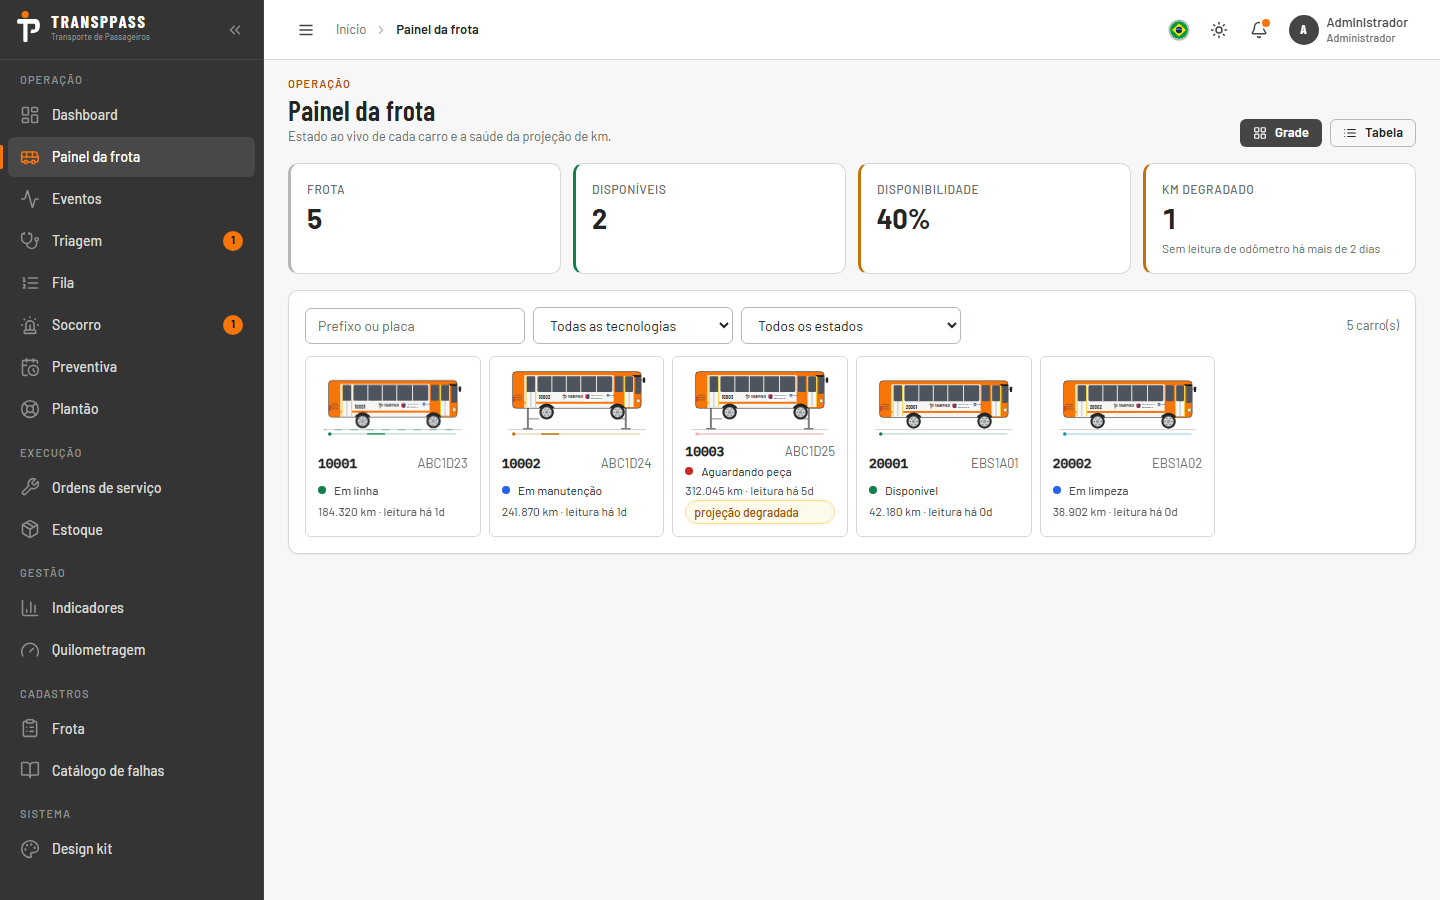
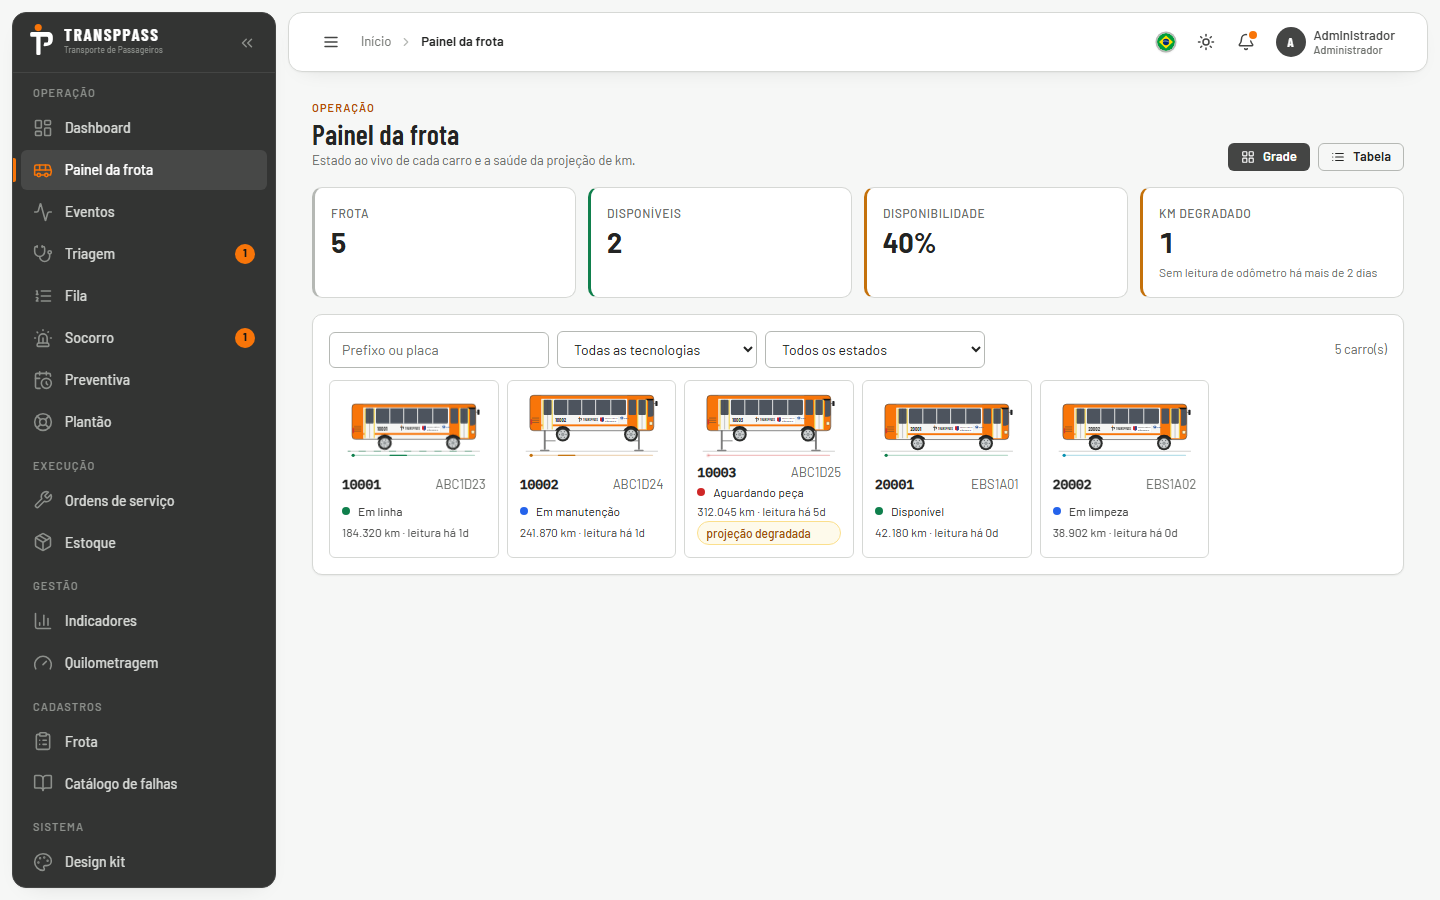
Shell em ilhas: sidebar e header como painéis soltos sobre o fundo
Grade com gap e padding; sidebar e header ganham cantos arredondados, borda
e sombra suave, e ficam presos (sticky) a 12px da borda. O miolo continua
no fundo da página com os cartões dele. No celular a gaveta segue colada à
esquerda, arredondada só do lado de dentro. Recolher a sidebar continua
sendo a transição das colunas.

diff --git a/packages/design-kit/src/css/shell.css b/packages/design-kit/src/css/shell.css
@@ -16,12 +16,24 @@
   --shell-header-h: 60px;
   --shell-subheader-h: 64px;
   --shell-gutter: var(--tp-space-6);
+  /* Respiro entre as ilhas (sidebar, header) e a borda da janela. */
+  --shell-gap: var(--tp-space-3);
+  --shell-island-radius: var(--tp-radius-xl);
+  --shell-island-shadow: 0 1px 2px rgb(0 0 0 / 0.04), 0 8px 24px -16px rgb(0 0 0 / 0.18);
 }
 
+/*
+ * Layout em ilhas: sidebar e header são painéis próprios, com cantos
+ * arredondados e respiro, soltos sobre o fundo da página; o miolo fica no
+ * fundo, com os cartões dele. A grade continua a mesma — só ganhou gap e
+ * padding — então recolher a sidebar segue sendo a transição das colunas.
+ */
 .shell {
   display: grid;
   grid-template-columns: var(--shell-sidebar-w) minmax(0, 1fr);
   grid-template-rows: var(--shell-header-h) minmax(0, 1fr);
+  gap: var(--shell-gap);
+  padding: var(--shell-gap);
   min-height: 100vh;
   min-height: 100dvh;
   background: var(--color-bg);
@@ -38,14 +50,16 @@
   grid-column: 1;
   grid-row: 1 / -1;
   position: sticky;
-  top: 0;
-  height: 100vh;
-  height: 100dvh;
+  top: var(--shell-gap);
+  height: calc(100vh - 2 * var(--shell-gap));
+  height: calc(100dvh - 2 * var(--shell-gap));
   display: flex;
   flex-direction: column;
   background: var(--color-sidebar-bg);
   color: var(--color-sidebar-text);
-  border-right: var(--tp-border-thin) solid var(--color-sidebar-border);
+  border: var(--tp-border-thin) solid var(--color-sidebar-border);
+  border-radius: var(--shell-island-radius);
+  box-shadow: var(--shell-island-shadow);
   overflow: hidden;
   z-index: var(--tp-z-sticky);
   width: var(--shell-sidebar-w);
@@ -277,7 +291,7 @@
   grid-column: 2;
   grid-row: 1;
   position: sticky;
-  top: 0;
+  top: var(--shell-gap);
   z-index: var(--tp-z-sticky);
   display: flex;
   align-items: center;
@@ -285,7 +299,9 @@
   height: var(--shell-header-h);
   padding: 0 var(--shell-gutter);
   background: var(--color-surface);
-  border-bottom: var(--tp-border-thin) solid var(--color-border);
+  border: var(--tp-border-thin) solid var(--color-border);
+  border-radius: var(--shell-island-radius);
+  box-shadow: var(--shell-island-shadow);
 }
 
 .header__menu {
@@ -615,6 +631,9 @@
   .sidebar {
     position: fixed;
     inset: 0 auto 0 0;
+    height: 100vh;
+    height: 100dvh;
+    border-radius: 0 var(--shell-island-radius) var(--shell-island-radius) 0;
     width: var(--shell-sidebar-w);
     transform: translateX(-100%);
     transition: transform var(--tp-duration-slow) var(--tp-ease);
